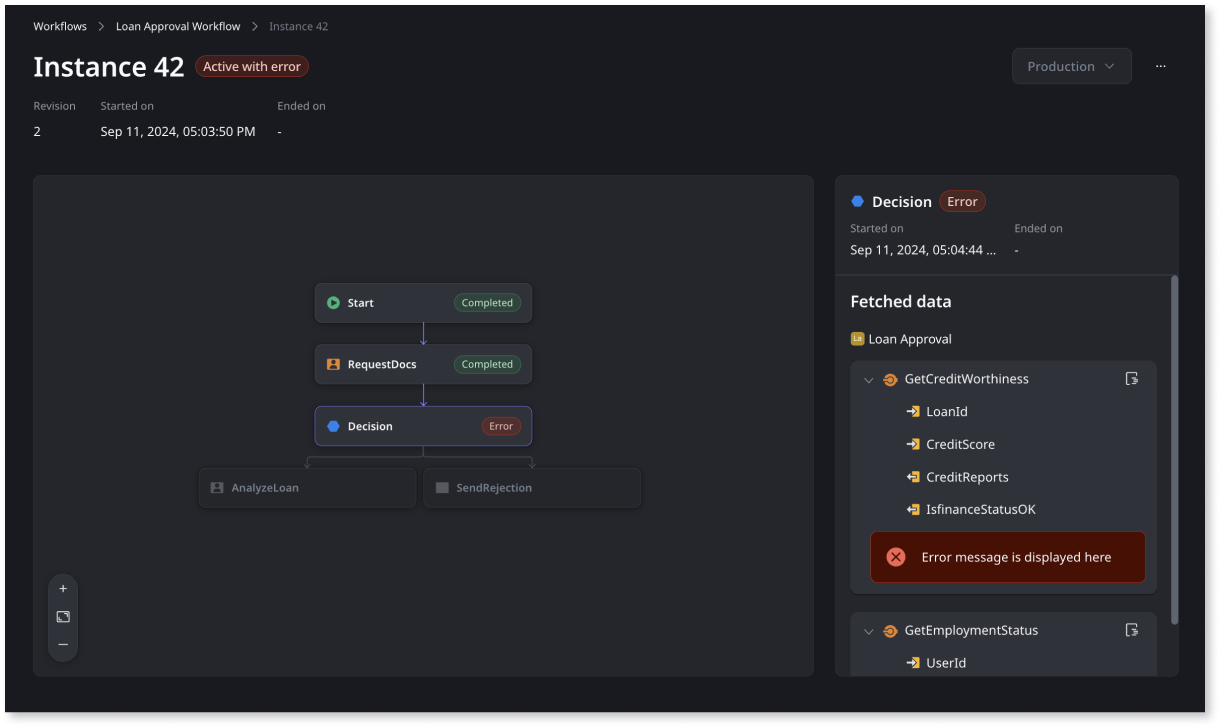
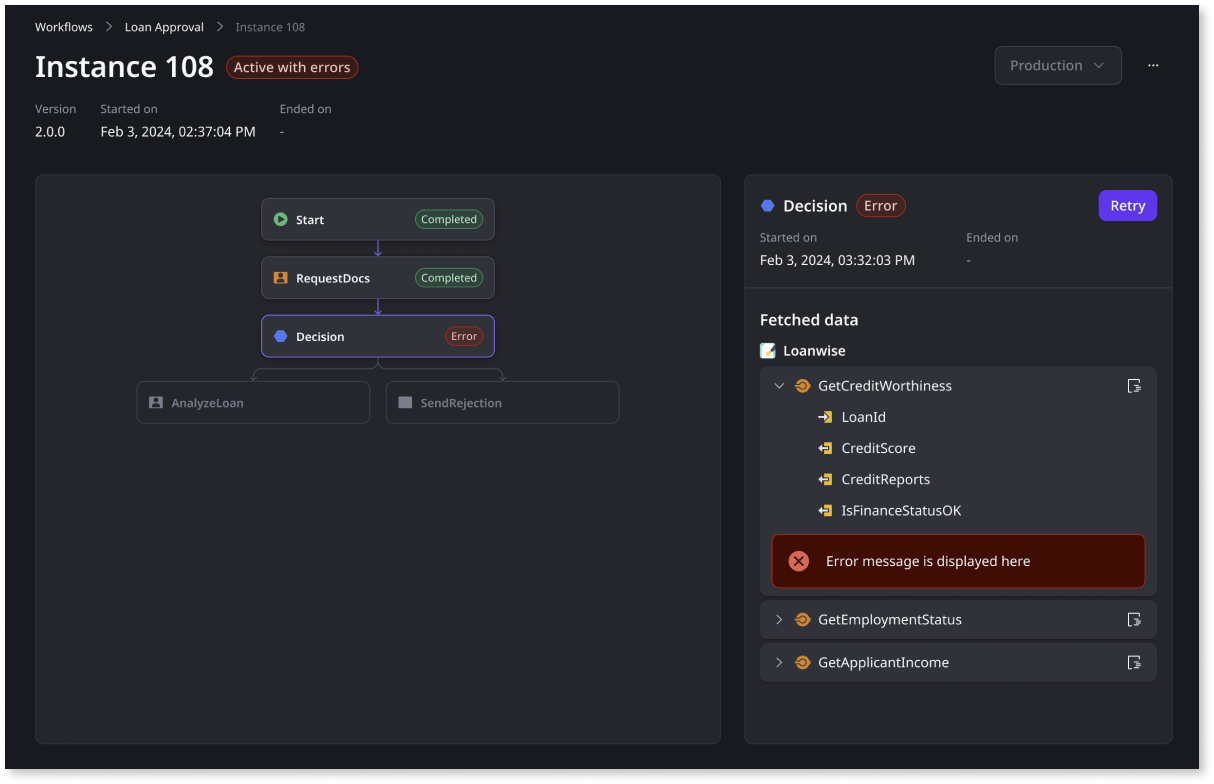
New manual retry workflows

diff --git a/src/eap/building-apps/workflows/troubleshooting-workflows.md b/src/eap/building-apps/workflows/troubleshooting-workflows.md
@@ -40,8 +40,12 @@ To investigate the error further, follow these steps:
 
 1. Select the erroneous workflow activity to display the error details. 
 
-    ![Screenshot of error details for the erroneous workflow activity](images/error-detail-pl.png "error details for the erroneous workflow activity")
+    ![Screenshot of error details for the erroneous workflow activity](images/error-detail-pl.png "Error details for the erroneous workflow activity")
 
-1. Fix the error.   
+1. After fixing the error, you can **Retry** the service action execution within the activity. 
+
+   **Note**: You can only retry the execution of service actions used in automatic activities, human activities, and decisions.
+
+    ![Screenshot of error details with Retry button](images/error-retry-pl.png "Error details with Retry button")
 
 Additionally, for more information about the error, you can navigate to the related Trace, when available. 
